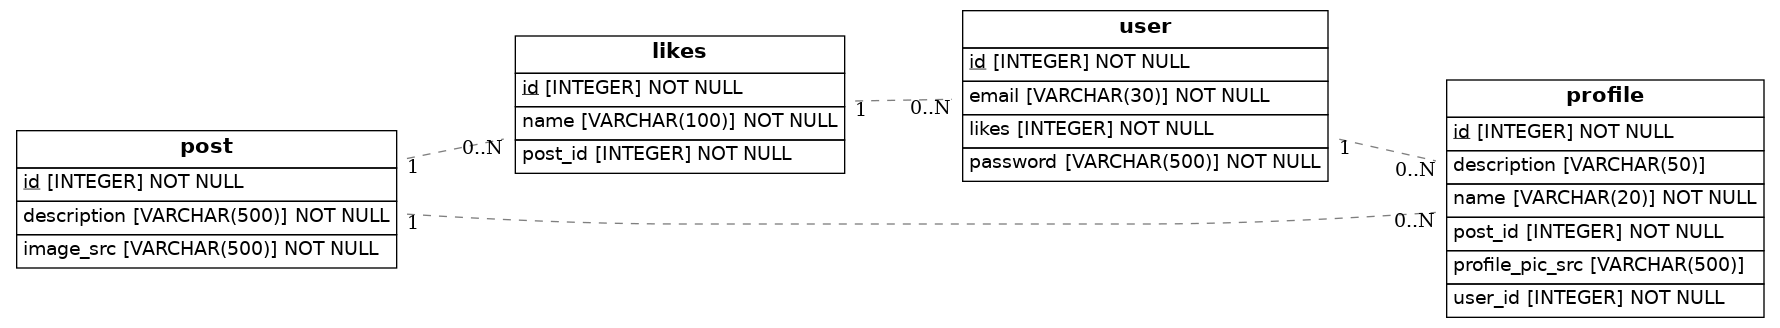
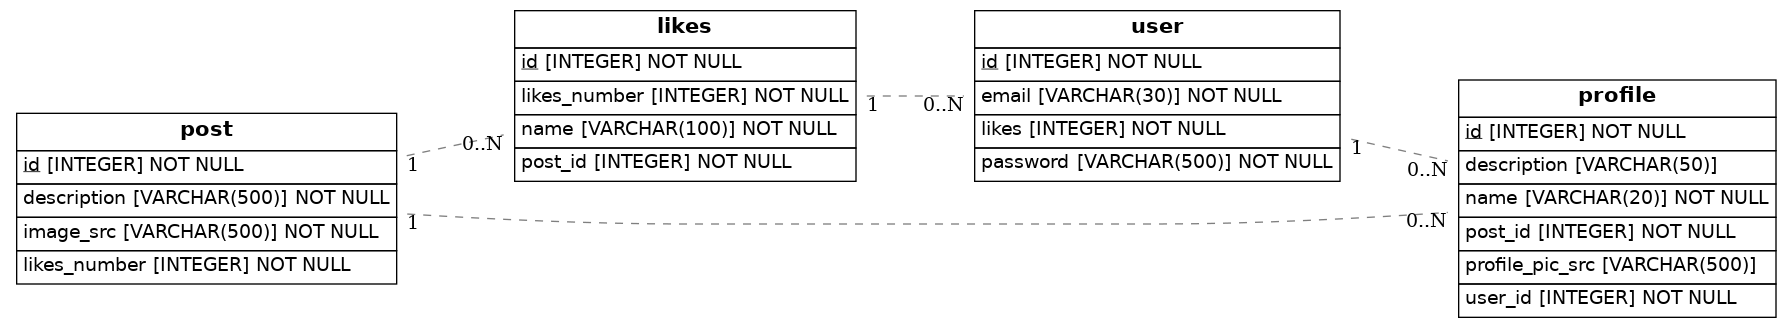
update

diff --git a/src/models.py b/src/models.py
@@ -11,7 +11,7 @@ class Post(Base):
     __tablename__ = "post"
     id = Column(Integer, primary_key = True)
     image_src = Column(String(500), nullable = False)
-    likes = Column(Integer, nullable = False) 
+    likes_number = Column(Integer, nullable = False) 
     description = Column(String(500), nullable = False)
     likes = relationship("likes")
     user_post = relationship("profile")
@@ -20,6 +20,7 @@ class Likes(Base):
     __tablename__ = "likes"
     id = Column(Integer, primary_key = True)
     name = Column(String(100), nullable = False)
+    likes_number = Column(Integer, nullable = False) 
     post_id = Column(Integer, ForeignKey("post.id"), nullable = False)
     favorite_posts = relationship("user")
 
